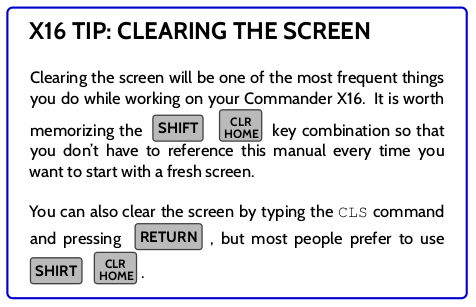
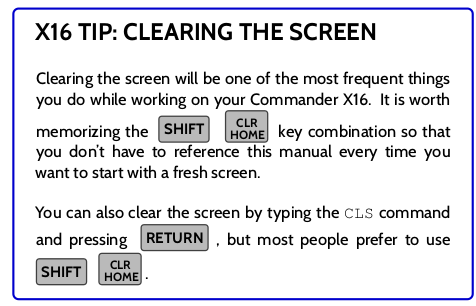
Fix typo in README and on associated image

Changed region(s): [[0.0, 0.0, 1.0, 1.0], [0.0588, 0.2059, 0.9412, 0.5882]]

diff --git a/README.md b/README.md
@@ -245,7 +245,7 @@ need be:
 	screen.\\
 
 	You can also clear the screen by typing the {\ttfamily CLS} command and
-	pressing \widekey{return}, but most people prefer to use \widekey{shirt}
+	pressing \widekey{return}, but most people prefer to use \widekey{shift}
 	\doublekey{CLR\\HOME}.
 
 }
